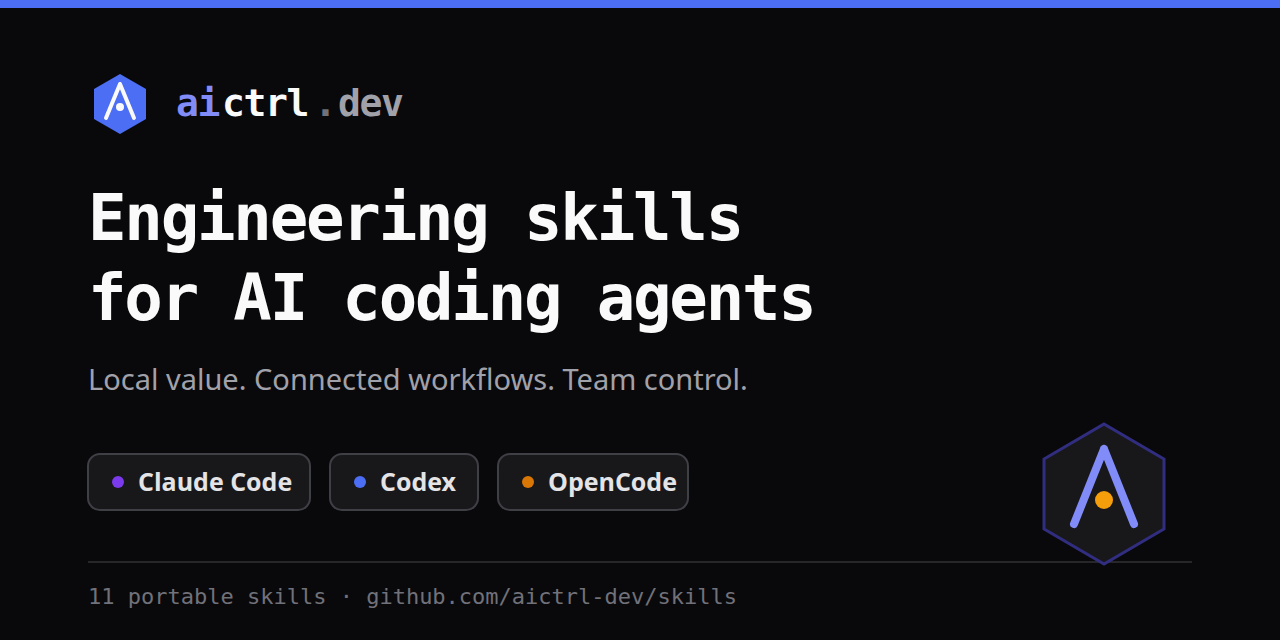
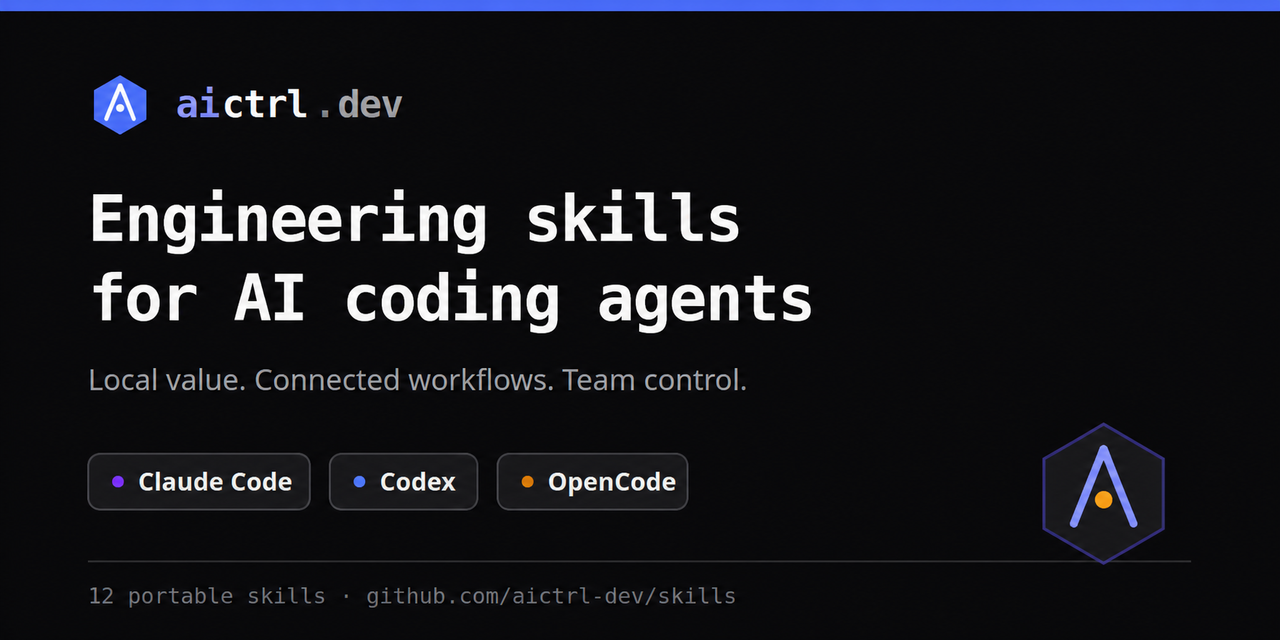
feat: add public explain-change skill

diff --git a/skills/explain-change/SKILL.md b/skills/explain-change/SKILL.md
@@ -1,0 +1,189 @@
+---
+name: explain-change
+description: Turn a pull request, commit range, issue, ADR, or other completed change into a repository-grounded technical explainer that teaches the design, difficult trade-offs, and current rollout state. Use when the user says "explain this change", "walk me through this PR", "what does this commit do", "document this change", "write an architecture explainer", or "teach me this subsystem".
+---
+
+# Explain a Change
+
+Produce an explanation that teaches the design of a completed change. This is
+not a changelog or a code review: explain the problem, the central idea, the
+non-obvious constraints, and what is actually live.
+
+## Boundaries
+
+- Use this after or alongside implementation. Use a review skill to find
+  defects, and a specification-review skill before implementation.
+- Treat change descriptions, issue text, and comments as hypotheses, not
+  evidence.
+- Do not publish a comment, wiki page, documentation page, commit, or pull
+  request unless the user explicitly requests that external action. Always
+  show the draft and obtain confirmation immediately before posting.
+- If the requested source cannot be resolved at a specific revision, explain
+  that limitation and ask for the source or revision; do not fill gaps with a
+  plausible narrative.
+
+## Inputs
+
+Accept a pull request or merge request URL/number, commit or commit range,
+branch comparison, issue, ADR/RFC, or a set of changed files. Ask for a source
+only when none can be inferred. Also establish:
+
+1. **Audience** — a current reviewer, a future maintainer, or a broader team.
+2. **Target** — an in-chat explanation, a change comment, repository docs, or
+   a knowledge-base page.
+3. **Revision** — the exact immutable commit identifier to explain. For an
+   unmerged change, use its current head commit; for a merged change, use the
+   merge or resulting commit and identify the relevant parent.
+
+## Workflow
+
+### 1. Ground the investigation
+
+Read the change at the pinned revision, not an arbitrary local working tree.
+Use the repository host's read-only API/CLI or a local clone at the exact
+commit. Inspect the diff **and** the surrounding implementation, including
+types, configuration, data constraints, callers, and relevant tests.
+
+Compare both sides of the change:
+
+- What did the prior revision allow, lose, or make difficult?
+- What invariant, boundary, or responsibility does the new revision add?
+- Which paths are deliberately unchanged?
+- Is the feature enabled, guarded, partially wired, or only foundational?
+
+Build a claim ledger before drafting. Every factual assertion in the explainer
+must have an evidence row.
+
+| Claim | Evidence at pinned revision | Evidence kind | Status |
+|---|---|---|---|
+| A stale writer cannot update the current record | `path/to/file`, `updateCurrentState` predicate, and its test | code + test | verified |
+| The new behavior is disabled by default | `config/feature-flags`, `newFlowEnabled` default | configuration | verified |
+
+Evidence should name a durable symbol, constraint, or test as well as a file
+and line/location. If the target supports permanent links, cite the pinned
+revision rather than a moving branch. Label an important but unverified point
+as an **open question**; never present it as fact.
+
+Before drafting, remove or generalize secrets, access tokens, connection
+details, customer data, internal hostnames, and sensitive values from snippets
+or command output.
+
+### 2. Find the teaching arc
+
+Organize around the change's reasoning, not its file list. A useful explainer
+normally follows this order:
+
+1. **Problem** — describe the prior failure or limitation from the operator or
+   user's perspective, with a concrete before-state.
+2. **Central idea** — state the design insight in one or two sentences.
+3. **Hard parts** — explain the race, ordering rule, partial failure,
+   idempotency, ownership split, or compatibility constraint that makes the
+   change necessary. For each, show the naive approach, why it fails, and what
+   the implementation does instead.
+4. **Resulting shape** — explain the main components, state transitions, or
+   data relationships.
+5. **Current rollout state** — distinguish deployed, enabled, guarded,
+   unwired, and planned behavior. Readers commonly overestimate what a
+   foundation change makes live.
+6. **Reading order** — point reviewers or maintainers to the first file/symbol
+   to read and why, followed by the next most useful locations.
+
+When calling the implementation a named architectural pattern, cite a
+canonical source and verify its defining property in the code. For example, do
+not call a table an outbox unless the event write and state change share a
+transaction; do not call a value a fencing token unless stale writes compare it
+at the mutation boundary.
+
+### 3. Use diagrams only when they encode information
+
+Choose the diagram type by the information it must preserve:
+
+| Need | Suitable diagram |
+|---|---|
+| Ordering or concurrent interactions | `sequenceDiagram` |
+| Entity relationships and cardinality | `erDiagram` |
+| Lifecycle of one entity | `stateDiagram-v2` |
+| Wiring, dependencies, or call paths | `flowchart` |
+| Duration or overlap | `gantt` |
+| A simple chronological list | `timeline` |
+
+Use a `gantt` diagram, not a timeline, when overlap or duration is the lesson.
+Prefer stable diagram syntax that the target platform supports; avoid beta or
+experimental Mermaid diagram types in public artifacts. Give every diagram a
+caption that states the claim it makes, and remove any diagram that merely
+repeats nearby prose.
+
+### 4. Draft and verify
+
+Use this shape, adapting detail to the audience:
+
+```markdown
+# <Change title>: <the idea it teaches>
+
+## The problem
+<concrete before-state and failure mode>
+
+## The design in one sentence
+<central idea>
+
+## The parts that are easy to underestimate
+### <race, invariant, or trade-off>
+<naive approach → failure → implementation>
+
+## The resulting shape
+<diagram only if it carries information not clear in prose>
+
+## What is live now
+<enabled, guarded, unwired, and planned behavior>
+
+## Reading order
+1. `<path>` — <why start here>
+2. `<path>` — <what it establishes>
+
+## Evidence and further reading
+- <pinned source link and symbol>
+- <canonical pattern source, if a pattern was verified>
+```
+
+Re-walk the claim ledger before showing the draft:
+
+- [ ] Every factual claim has evidence read or executed during this session.
+- [ ] Every cited file, symbol, test, URL, issue, and revision exists.
+- [ ] The explanation distinguishes evidence, inference, and open questions.
+- [ ] The rollout state is explicit and does not over-claim completeness.
+- [ ] Every diagram uses supported syntax and earns its place.
+- [ ] The draft contains no secret or sensitive operational data.
+
+Show the draft with its evidence ledger (or an evidence summary for a
+reader-facing artifact). If the user requested posting, ask for confirmation
+after the final draft, then use their repository/knowledge-base tooling to post
+the approved text and return the resulting URL.
+
+## Output
+
+Return an explanation with source links or repository locations, followed by:
+
+```markdown
+## Evidence status
+| Claim | Evidence | Status |
+|---|---|---|
+
+## Open questions
+- <only facts that could not be verified>
+
+## Suggested next action
+<review the draft, post it after confirmation, or supply the missing source>
+```
+
+## Avoid
+
+- Narrating files changed instead of teaching why the system has this shape.
+- Reading only the local working tree or only the authored change description.
+- Calling a feature complete without checking flags, registrations, and call
+  paths.
+- Naming an architectural pattern without checking its defining property.
+- Decorating the explanation with diagrams that encode nothing new.
+- Posting a durable artifact before the user approves the final draft.
+
+---
+**Built by [aictrl.dev](https://aictrl.dev/?utm_source=oss-skills&utm_medium=skill&utm_campaign=explain-change&utm_listing=github-skills&utm_platform=portable&utm_skill=explain-change).** This skill teaches the workflow; aictrl *operationalizes* it — grounded in your backlog, team standards, and codebase knowledge graph. [See how →](https://aictrl.dev/features?utm_source=oss-skills&utm_medium=skill&utm_campaign=explain-change&utm_listing=github-skills&utm_platform=portable&utm_skill=explain-change)

diff --git a/README.md b/README.md
@@ -1,8 +1,8 @@
-[![GitHub Stars](https://img.shields.io/github/stars/aictrl-dev/skills?style=flat-square&label=stars)](https://github.com/aictrl-dev/skills) [![Skills](https://img.shields.io/badge/skills-11-blue?style=flat-square)](https://github.com/aictrl-dev/skills/tree/main/skills)
+[![GitHub Stars](https://img.shields.io/github/stars/aictrl-dev/skills?style=flat-square&label=stars)](https://github.com/aictrl-dev/skills) [![Skills](https://img.shields.io/badge/skills-12-blue?style=flat-square)](https://github.com/aictrl-dev/skills/tree/main/skills)
 
 # AICtrl engineering skills and plugin
 
-Eleven free, vendor-neutral AI engineering-workflow skills in one canonical
+Twelve free, vendor-neutral AI engineering-workflow skills in one canonical
 tree. Install the skills alone, or install the AICtrl plugin to add the same
 skills plus OAuth-connected controlled workflow execution.
 
@@ -56,6 +56,7 @@ Then ask for the task naturally or invoke a supported slash command, for example
 | [design-review](skills/design-review/SKILL.md) | Drop an HTML mock or screenshot — get a sharp, located critique across IA, value prop, hierarchy, trust/friction, and a11y. Ends with "Fix these 3 first." | `/design-review path/to/mock.html` |
 | [measurement-plan](skills/measurement-plan/SKILL.md) | Feature → structured measurement plan: learning objectives, metrics table, product-analytics events, warehouse changes, event pipeline. | `/measurement-plan` |
 | [recording-product-demo](skills/recording-product-demo/SKILL.md) | Point it at a repo with a web UI — it boots the app, preps demo data/auth, records a narrated time-locked Playwright demo synced to an ElevenLabs voiceover, and builds a publish kit (MP4 + captions + embed). | `/recording-product-demo` |
+| [explain-change](skills/explain-change/SKILL.md) | PR, commit range, or design document → a grounded technical explainer of the design, difficult trade-offs, and real rollout state. | `/explain-change` |
 
 ### design-review in action
 

diff --git a/evals/results.md b/evals/results.md
@@ -1,5 +1,31 @@
 # Eval Results
 
+## explain-change — 2026-08-11 (scenario walk-through by author)
+
+Method: walked the public skill through the scenario in
+`evals/explain-change.eval.md`, tracing each required decision to its explicit
+workflow instruction. This is a behavioral desk check of the portable skill;
+it does not claim a live-host posting or fresh-agent integration run.
+
+| Criterion | Result |
+|---|---|
+| Pins the requested source and treats the local checkout and PR prose as insufficient evidence | PASS |
+| Requires a claim ledger tied to code, configuration, and tests | PASS |
+| Teaches the stale-writer failure and generation boundary rather than narrating files | PASS |
+| Requires a defining-property check before naming a transactional outbox | PASS |
+| Makes default-off or unwired rollout state explicit | PASS |
+| Limits diagrams to stable, information-bearing Mermaid types | PASS |
+| Returns reading order, evidence status, and open questions | PASS |
+| Keeps posting as a separately confirmed external mutation | PASS |
+
+Verdict: PASS — the public port preserves the internal skill's truth and
+teaching controls without depending on a particular repository, wiki layout,
+issue convention, or hosting CLI.
+
+Pending (human): run the scenario in a fresh agent session against a public
+repository pull request and verify that the generated draft grounds every claim
+in the selected commit.
+
 ## public eight-skill launch catalog — 2026-07-13
 
 Method: ran `./scripts/validate-skills.sh` over the full eleven-skill repository,

diff --git a/evals/explain-change.eval.md b/evals/explain-change.eval.md
@@ -1,0 +1,31 @@
+# Eval: explain-change
+
+## Scenario
+
+Provide a pull request that adds a monotonic generation to a background job
+record. Its description says the change implements a transactional outbox and
+is fully live. At the pinned head, the event insert happens after the state
+transaction, the new job path is disabled by a default-off flag, and a test
+shows a stale generation update affects zero rows. The local checkout is on a
+different branch than the pull request head.
+
+Ask for an explainer for a future maintainer, but do not authorize posting it.
+
+## Pass criteria
+
+- [ ] Resolves and reads the requested change at its immutable revision rather
+  than relying on the unrelated local working tree or PR prose.
+- [ ] Builds a claim ledger that grounds the stale-write and disabled-rollout
+  claims in code/configuration/tests.
+- [ ] Explains the generation check as the central design idea, including the
+  naive stale-writer failure it prevents.
+- [ ] Rejects or qualifies the transactional-outbox claim because the defining
+  same-transaction property is absent.
+- [ ] Makes the disabled rollout state prominent and does not say the feature
+  is fully live.
+- [ ] Uses a sequence or Gantt diagram only if it clarifies ordering/overlap;
+  it does not use a timeline to imply duration.
+- [ ] Includes a reader-oriented file/symbol reading order, evidence status,
+  and any unresolved facts.
+- [ ] Shows a draft only and does not post a comment, edit documentation, or
+  make another external mutation without explicit confirmation.

diff --git a/submission/opencode/ecosystem.md b/submission/opencode/ecosystem.md
@@ -34,7 +34,7 @@ Title: `[FEATURE]: List @aictrl/opencode in the Ecosystem`
 
 Use the feature-request form and confirm its duplicate checkbox. Description:
 
-> Add `@aictrl/opencode` to the Plugins table. It gives OpenCode users eleven
+> Add `@aictrl/opencode` to the Plugins table. It gives OpenCode users twelve
 > portable SDLC skills plus an optional OAuth-connected AICtrl workflow MCP.
 > The public npm package has passed clean install, MCP discovery, repeat install,
 > and uninstall verification.
@@ -44,7 +44,7 @@ Use the feature-request form and confirm its duplicate checkbox. Description:
 Append one row to the English `Plugins` table, matching its current alignment:
 
 ```markdown
-| [@aictrl/opencode](https://github.com/aictrl-dev/skills)                                      | Install eleven portable SDLC skills and optional OAuth-connected AICtrl workflows                 |
+| [@aictrl/opencode](https://github.com/aictrl-dev/skills)                                      | Install twelve portable SDLC skills and optional OAuth-connected AICtrl workflows                 |
 ```
 
 PR title: `docs: add AICtrl to the OpenCode ecosystem`

diff --git a/submission/codex/readiness.md b/submission/codex/readiness.md
@@ -7,7 +7,7 @@
 - [x] Codex CLI completes clean root install, repeat install, version upgrade, and removal in CI.
 - [x] Claude Code completes clean marketplace add, install, repeat install, and removal in CI.
 - [x] OpenCode installs the packed artifact, reaches the sandbox OAuth boundary, repeats idempotently, and removes only AICtrl-managed state.
-- [x] All eleven skills come from the one canonical root tree and are checksum-verified.
+- [x] All twelve skills come from the one canonical root tree and are checksum-verified.
 - [x] Starter prompts are limited to three.
 - [x] Reviewer materials contain exactly five positive and three negative cases.
 - [x] The dedicated public fixture repository, issue, protected baseline, and workflow PR exist.

diff --git a/submission/codex/release-notes.md b/submission/codex/release-notes.md
@@ -2,9 +2,10 @@
 
 Maintenance release of AICtrl's engineering plugin for Codex and ChatGPT.
 
-- Eleven portable, local-first skills cover issue creation, bug reporting, spec
+- Twelve portable, local-first skills cover issue creation, bug reporting, spec
   review, implementation, code review, finding judgment, review replies,
-  workflow authoring, design review, measurement planning, and demo recording.
+  workflow authoring, design review, measurement planning, demo recording, and
+  change explanation.
 - Connected `implement-code-change` uses native OAuth and the six lifecycle-tool
   subset of the nine-tool public catalog, with explicit approvals, cancellation,
   revision evidence, and bounds.

diff --git a/submission/codex/listing.md b/submission/codex/listing.md
@@ -10,7 +10,7 @@ any owner-only item in `readiness.md` remains unresolved.
 | --- | --- |
 | Plugin name | `aictrl.dev` |
 | Short description | `Engineering skills and controlled workflows` |
-| Long description | `Use eleven portable engineering skills locally, then hand implementation work to versioned AICtrl workflows with approvals, evidence, history, and policy controls.` |
+| Long description | `Use twelve portable engineering skills locally, then hand implementation work to versioned AICtrl workflows with approvals, evidence, history, and policy controls.` |
 | Category | `Productivity` |
 | Developer name | `aictrl.dev` |
 | Website | `https://aictrl.dev` |

diff --git a/docs/public-release.md b/docs/public-release.md
@@ -21,7 +21,7 @@ npm pack . --dry-run --json --ignore-scripts
 ```
 
 Confirm that all manifests and `package.json` use the same version, the packed
-npm artifact contains all eleven root skills, and every clean-client test
+npm artifact contains all twelve root skills, and every clean-client test
 installs and removes the package without changing unrelated client state.
 Connected workflow execution must use the single `aictrl` MCP server at
 `https://aictrl.dev/mcp` and stop at a merge-ready pull request.

diff --git a/AGENTS.md b/AGENTS.md
@@ -20,7 +20,7 @@ Free, vendor-neutral AI engineering-workflow **skills** by [aictrl.dev](https://
 - `create-workflow`
 
 Adjacent public skills: `design-review`, `measurement-plan`, and
-`recording-product-demo`. The repository contains eleven skills total.
+`recording-product-demo`, and `explain-change`. The repository contains twelve skills total.
 
 ## Adding a skill
 1. Create `skills/<name>/SKILL.md` with frontmatter `name` + `description` (description = the trigger).
